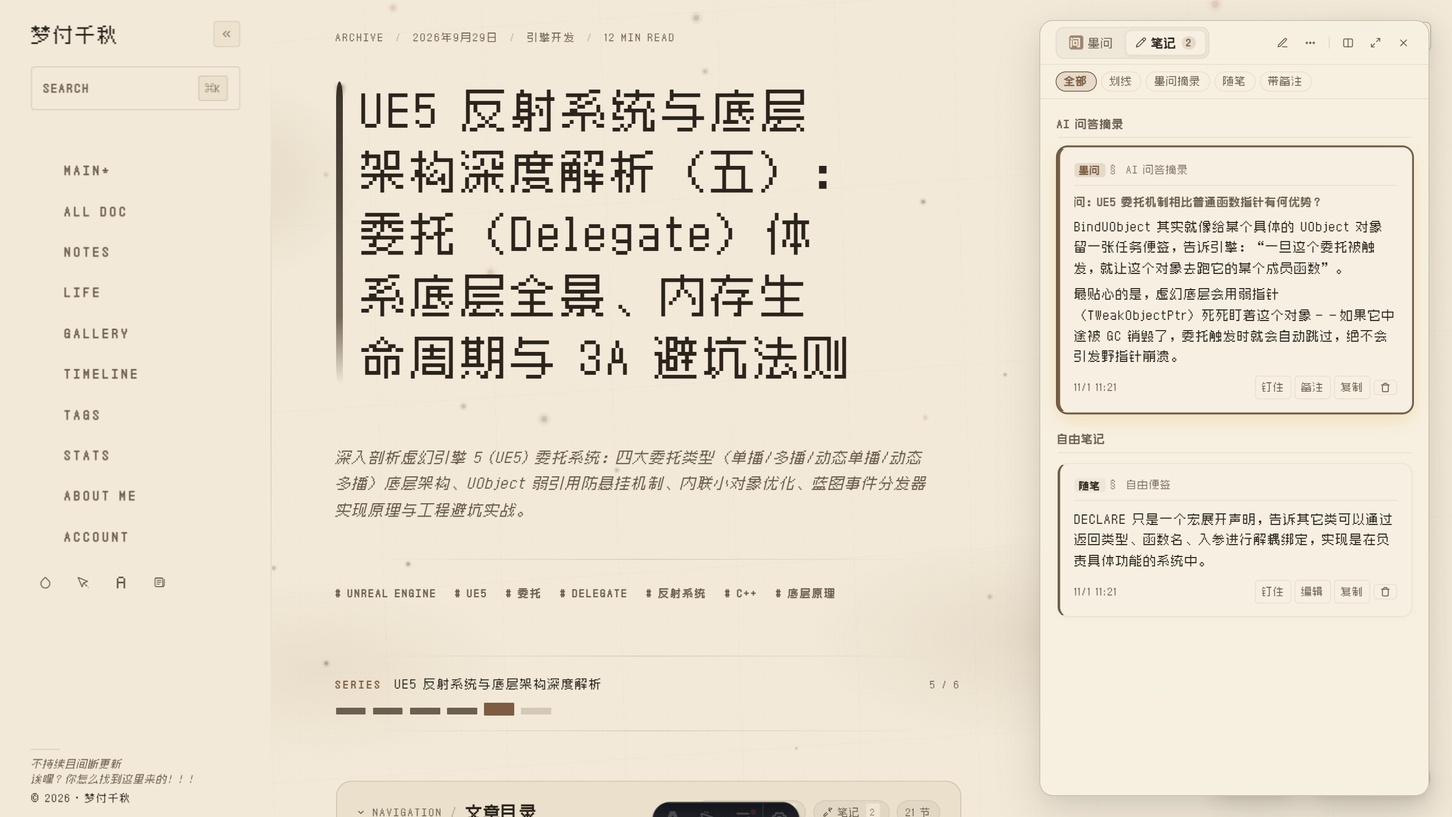
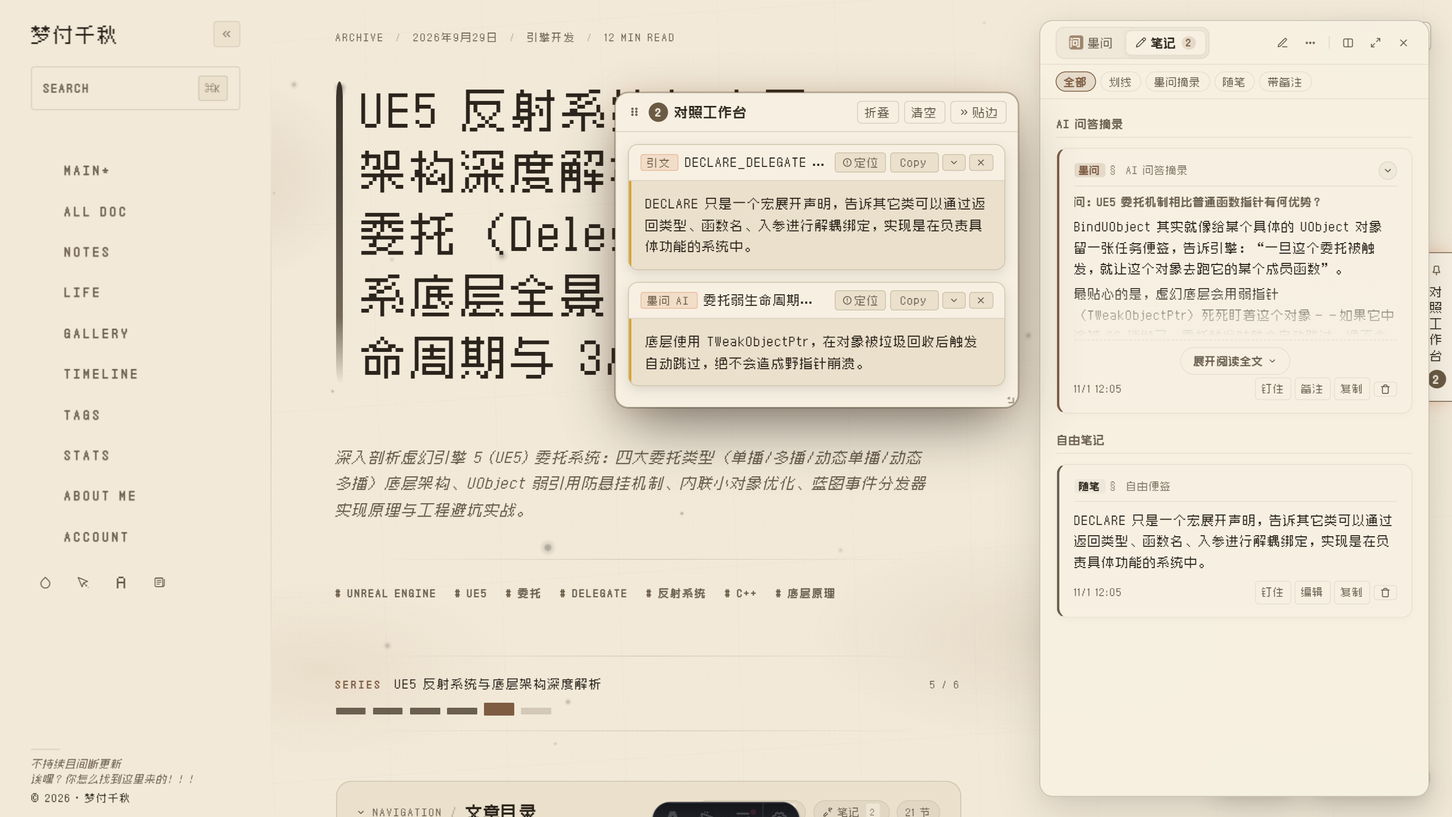
docs(audit): 补充对照工作台真实联动截图与全量交互动效审计深度修正

diff --git a/docs/ai-notes-interaction-animation-audit.md b/docs/ai-notes-interaction-animation-audit.md
@@ -12,11 +12,28 @@
 - [一、交互架构与审计概览](#一交互架构与审计概览)
 - [二、六大交互维度缺失动效深度审计](#二六大交互维度缺失动效深度审计)
   - [维度 1：选中文本与 AI / 笔记入口的连接交互](#维度-1选中文本与-ai--笔记入口的连接交互)
+    - [1.1 划词微托盘呼叫「墨问」缺少文字飞入与轨迹连接](#11-划词微托盘呼叫墨问缺少文字飞入与轨迹连接)
+    - [1.2 快捷键触发缺少按键按下与微波纹触觉反馈](#12-快捷键触发缺少按键按下与微波纹触觉反馈)
   - [维度 2：InkAsk 墨问流式推敲与气泡微动效](#维度-2inkask-墨问流式推敲与气泡微动效)
+    - [2.1 快捷预设提问卡片点击缺少吸入与变形动效](#21-快捷预设提问卡片点击缺少吸入与变形动效)
+    - [2.2 流式回答阶段缺少水墨呼吸光标与渐进渗入](#22-流式回答阶段缺少水墨呼吸光标与渐进渗入)
+    - [2.3 回答完成态操作条与「存入笔记」微交互反馈](#23-回答完成态操作条与存入笔记微交互反馈)
   - [维度 3：「存入笔记」跨模块数据流与时空反馈断层](#维度-3存入笔记跨模块数据流与时空反馈断层)
+    - [3.1 单抽屉模式下「存入笔记」的“盲存”视觉失联](#31-单抽屉模式下存入笔记的盲存视觉失联)
+    - [3.2 并排模式（Split Mode）下跨分隔条飞渡动效缺失](#32-并排模式split-mode下跨分隔条飞渡动效缺失)
+    - [3.3 划定回答局部选区缺少聚焦微高亮](#33-划定回答局部选区缺少聚焦微高亮)
   - [维度 4：伴读顶部分段互切与双卷并排拖拽微动效](#维度-4伴读顶部分段互切与双卷并排拖拽微动效)
+    - [4.1 顶部伴读分段切换缺少滑动胶囊滑块（Sliding Pill Morph）](#41-顶部伴读分段切换缺少滑动胶囊滑块sliding-pill-morph)
+    - [4.2 中缝分隔条（Splitter）到达极值缺少阻尼橡皮筋与复位弹簧](#42-中缝分隔条splitter到达极值缺少阻尼橡皮筋与复位弹簧)
+    - [4.3 双卷并排（Split Mode）宏观对峙与空间舒展动效缺失](#43-双卷并排split-mode宏观对峙与空间舒展动效缺失)
   - [维度 5：笔记抽屉内 AI 卡片结构与双向回流微动效](#维度-5笔记抽屉内-ai-卡片结构与双向回流微动效)
+    - [5.1 笔记列表中的 AI 问答卡片缺少「向墨问追问」的反向回流入口](#51-笔记列表中的-ai-问答卡片缺少向墨问追问的反向回流入口)
+    - [5.2 并排模式下双向拖拽（Drag & Drop）微交互全无](#52-并排模式下双向拖拽drag--drop微交互全无)
+    - [5.3 笔记卡片展开/收起手风琴动画缺失](#53-笔记卡片展开收起手风琴动画缺失)
+    - [5.4 浮动对照工作台与 AI/笔记卡片多屏对照联动动效缺失](#54-浮动对照工作台与-ai笔记卡片多屏对照联动动效缺失)
   - [维度 6：全站笔记中心 (`/notes`) 的 AI 交互孤岛与重排动效](#维度-6全站笔记中心-notes-的-ai-交互孤岛与重排动效)
+    - [6.1 标签筛选重排缺少流体 FLIP 布局重排补间](#61-标签筛选重排缺少流体-flip-布局重排补间)
+    - [6.2 全站笔记中心内 AI 卡片无法直接唤起墨问继续探索](#62-全站笔记中心内-ai-卡片无法直接唤起墨问继续探索)
 - [三、全量审计现场截图对照表](#三全量审计现场截图对照表)
 - [四、水墨书斋微动效参数规范推荐 (Motion Tokens)](#四水墨书斋微动效参数规范推荐-motion-tokens)
 - [五、改造实施排期建议](#五改造实施排期建议)
@@ -30,6 +47,7 @@
 - **墨问 AI (`InkAsk.astro`)**：伴读解惑系统，提供预设脉络、流式回答、答案回溯、一键存入笔记等能力。
 - **高亮笔记抽屉 (`ArticleSelectionDock.astro`)**：按文章与正文结构汇集划线、随笔与 AI 问答摘录。
 - **伴读空间协调器 (`CompanionLayout.astro`)**：管理右侧单浮岛（Rail）、墨问全屏（Ask-Full）、笔记全屏（Notes-Full）以及左墨问·右笔记双卷并排（Split Mode）。
+- **浮动对照工作台 (`PinWorkbench.astro`)**：支持跨段落、跨章节将正文引文、代码块与 AI 问答摘录一键钉入（Pin）可自由拖拽调整尺寸的半透明浮动窗口，并支持右边缘标签（Edge Tab）吸附折叠。
 - **全站笔记管理中心 (`/notes`)**：以瀑布流展板统一陈列全站笔记，按来源与类型分类索引。
 
 **审计核心发现**：
@@ -42,7 +60,7 @@
 ### 维度 1：选中文本与 AI / 笔记入口的连接交互
 
 #### 1.1 划词微托盘呼叫「墨问」缺少文字飞入与轨迹连接
-- **相关代码**：[`ArticleSelectionDock.astro`](file:///e:/搞搞新意思/个人博客/my-blog/src/components/ArticleSelectionDock.astro#L1150-L1171)
+- **相关代码**：[`ArticleSelectionDock.astro`](file:///e:/搞搞新意思/个人博客/my-blog/src/components/ArticleSelectionDock.astro#L1150-L1175)
 - **代码现状**：
   ```javascript
   function triggerAsk() {
@@ -60,7 +78,7 @@
   ![划词微托盘入口](/images/ai-notes-audit/01-selection-dock-ask.png)
 
 #### 1.2 快捷键触发缺少按键按下与微波纹触觉反馈
-- **相关代码**：[`ArticleSelectionDock.astro`](file:///e:/搞搞新意思/个人博客/my-blog/src/components/ArticleSelectionDock.astro#L1342-L1385)
+- **相关代码**：[`ArticleSelectionDock.astro`](file:///e:/搞搞新意思/个人博客/my-blog/src/components/ArticleSelectionDock.astro#L1334-L1385)
 - **缺失表现**：
   微托盘中清晰标明了快捷键 `<kbd>A</kbd>`（墨问）与 `<kbd>H</kbd>`（划线）。但当用户通过键盘按下 `A` 或 `H` 时，托盘按钮毫无视觉按压反馈（无 `:active` 缩放或微光下陷），功能直接执行，缺乏物理按压感。
 - **推荐微动效方案**：
@@ -68,10 +86,10 @@
 
 ---
 
-### 维度 2：InkAsk 墨问流式推敲与气泡微动效
+## 维度 2：InkAsk 墨问流式推敲与气泡微动效
 
 #### 2.1 快捷预设提问卡片点击缺少吸入与变形动效
-- **相关代码**：[`InkAsk.astro`](file:///e:/搞搞新意思/个人博客/my-blog/src/components/InkAsk.astro#L1187-L1216)
+- **相关代码**：[`InkAsk.astro`](file:///e:/搞搞新意思/个人博客/my-blog/src/components/InkAsk.astro#L1187-L1225)
 - **代码现状**：
   预设卡片（脉络提要、问题溯源、机巧拆解、前置与避坑）在 hover 时仅有平淡的背景色变化，点击时立即被清除。
 - **缺失表现**：
@@ -82,7 +100,7 @@
   ![墨问空状态预设卡片](/images/ai-notes-audit/02-ink-ask-empty-state.png)
 
 #### 2.2 流式回答阶段缺少水墨呼吸光标与渐进渗入
-- **相关代码**：[`InkAsk.astro`](file:///e:/搞搞新意思/个人博客/my-blog/src/components/InkAsk.astro#L689-L695)
+- **相关代码**：[`InkAsk.astro`](file:///e:/搞搞新意思/个人博客/my-blog/src/components/InkAsk.astro#L689-L705)
 - **缺失表现**：
   生成回答时，虽然顶部有「展卷推敲中」小三点微动效，但回答正文区域只是生硬地 chunk-by-chunk 刷出文本。缺少大模型或水墨书斋特有的「墨韵呼吸打字光标」，文字流出时略显生冷。
 - **推荐微动效方案**：
@@ -90,12 +108,23 @@
 - **截图佐证**：
   ![墨问推敲中与流式状态](/images/ai-notes-audit/03-ink-ask-streaming-state.png)
 
+#### 2.3 回答完成态操作条与「存入笔记」微交互反馈
+- **相关代码**：[`InkAsk.astro`](file:///e:/搞搞新意思/个人博客/my-blog/src/components/InkAsk.astro#L734-L780)
+- **代码现状**：
+  回答输出结束瞬间，代码通过 `appendTurnActions` 挂载 `[存入笔记]` 与 `[复制]` 两个操作按钮。
+- **缺失表现**：
+  操作栏直接瞬间弹出（pop-in），缺乏平滑入场；按钮在 hover 与点击时缺少物理微触觉反馈与状态流转动效。
+- **推荐微动效方案**：
+  操作栏采用 `translate3d(0, 6px, 0) -> translate3d(0, 0, 0)` 伴随 `opacity: 0 -> 1` 的入场补间（220ms）；按钮 hover 时呈现微浮与边框微光，点击存入时播放微弹性缩放与朱砂印记微闪。
+- **截图佐证**：
+  ![墨问回答完成态与底部操作条](/images/ai-notes-audit/04-ink-ask-answer-save-note.png)
+
 ---
 
-### 维度 3：「存入笔记」跨模块数据流与时空反馈断层
+## 维度 3：「存入笔记」跨模块数据流与时空反馈断层
 
 #### 3.1 单抽屉模式下「存入笔记」的“盲存”视觉失联
-- **相关代码**：[`InkAsk.astro`](file:///e:/搞搞新意思/个人博客/my-blog/src/components/InkAsk.astro#L740-L766)、[`ArticleSelectionDock.astro`](file:///e:/搞搞新意思/个人博客/my-blog/src/components/ArticleSelectionDock.astro#L2260-L2273)
+- **相关代码**：[`InkAsk.astro`](file:///e:/搞搞新意思/个人博客/my-blog/src/components/InkAsk.astro#L740-L770)、[`ArticleSelectionDock.astro`](file:///e:/搞搞新意思/个人博客/my-blog/src/components/ArticleSelectionDock.astro#L2232-L2275)
 - **关键代码还原**：
   ```typescript
   btn.addEventListener('click', () => {
@@ -120,7 +149,7 @@
   ![单抽屉存入笔记视觉失联](/images/ai-notes-audit/05-save-note-closed-drawer-disconnect.png)
 
 #### 3.2 并排模式（Split Mode）下跨分隔条飞渡动效缺失
-- **相关代码**：[`CompanionLayout.astro`](file:///e:/搞搞新意思/个人博客/my-blog/src/components/CompanionLayout.astro#L421-L528)、[`ArticleSelectionDock.astro`](file:///e:/搞搞新意思/个人博客/my-blog/src/components/ArticleSelectionDock.astro#L2083-L2094)
+- **相关代码**：[`CompanionLayout.astro`](file:///e:/搞搞新意思/个人博客/my-blog/src/components/CompanionLayout.astro#L430-L530)、[`ArticleSelectionDock.astro`](file:///e:/搞搞新意思/个人博客/my-blog/src/components/ArticleSelectionDock.astro#L2077-L2125)
 - **缺失表现**：
   在「左墨问 · 右笔记」双卷并排模式下，两卷同屏对照。用户点击左侧的「存入笔记」，右侧笔记列表最上方虽然插入了新卡片，但两屏之间没有任何跨越中央中缝（Splitter）的视觉过渡，看起来像两个毫不相关的独立软件窗口。
 - **推荐微动效方案**：
@@ -129,7 +158,7 @@
   ![并排模式跨面板存入缺失连贯性](/images/ai-notes-audit/08-split-mode-save-cross-panel.png)
 
 #### 3.3 划定回答局部选区缺少聚焦微高亮
-- **相关代码**：[`InkAsk.astro`](file:///e:/搞搞新意思/个人博客/my-blog/src/components/InkAsk.astro#L721-L732)
+- **相关代码**：[`InkAsk.astro`](file:///e:/搞搞新意思/个人博客/my-blog/src/components/InkAsk.astro#L707-L732)
 - **缺失表现**：
   代码设计了精巧的特性：“在回答里选中一段文字，则只保存选中的部分，按钮变更为【存入选中】”。但在用户选中文本时，回答气泡内部没有给出任何视觉锁定框或金线边缘包围，用户难以感知系统是否准确捕获了当前选区。
 - **推荐微动效方案**：
@@ -137,10 +166,10 @@
 
 ---
 
-### 维度 4：伴读顶部分段互切与双卷并排拖拽微动效
+## 维度 4：伴读顶部分段互切与双卷并排拖拽微动效
 
 #### 4.1 顶部伴读分段切换缺少滑动胶囊滑块（Sliding Pill Morph）
-- **相关代码**：[`CompanionLayout.astro`](file:///e:/搞搞新意思/个人博客/my-blog/src/components/CompanionLayout.astro#L155-L172, #L336-L353)
+- **相关代码**：[`CompanionLayout.astro`](file:///e:/搞搞新意思/个人博客/my-blog/src/components/CompanionLayout.astro#L155-L175)
 - **缺失表现**：
   顶部分段器包含 `[问 墨问]` 与 `[✎ 笔记 N]` 两个 Tab。目前点击切换时，仅通过类名修改背景色与透明度。虽然面板主体有横向微移，但 Tab 本身缺少 macOS / iOS 风格的共享平滑滑动背景滑块。
 - **推荐微动效方案**：
@@ -149,7 +178,7 @@
   ![顶部分段切换](/images/ai-notes-audit/06-companion-seg-tab-switch.png)
 
 #### 4.2 中缝分隔条（Splitter）到达极值缺少阻尼橡皮筋与复位弹簧
-- **相关代码**：[`CompanionLayout.astro`](file:///e:/搞搞新意思/个人博客/my-blog/src/components/CompanionLayout.astro#L639-L658, #L680-L688)
+- **相关代码**：[`CompanionLayout.astro`](file:///e:/搞搞新意思/个人博客/my-blog/src/components/CompanionLayout.astro#L639-L688)
 - **代码现状**：
   ```javascript
   splitter.addEventListener('dblclick', () => {
@@ -169,14 +198,25 @@
 - **截图佐证**：
   ![中缝分隔条拖拽与百分比气泡](/images/ai-notes-audit/10-splitter-drag-feedback.png)
 
+#### 4.3 双卷并排（Split Mode）宏观对峙与空间舒展动效缺失
+- **相关代码**：[`CompanionLayout.astro`](file:///e:/搞搞新意思/个人博客/my-blog/src/components/CompanionLayout.astro#L430-L460, #L510-L530)
+- **代码现状**：
+  在宽屏模式下，用户可通过操作栏或分段菜单触发 `enterSplit` 进入双卷并排。
+- **缺失表现**：
+  进入并排模式时，两扇抽屉同时展开，但左卷与右卷的展开缺乏时间差与书卷舒展的层次感（Staggered Unfold），视线无焦点；退出并排退回单抽屉时，收拢动作略显生硬。
+- **推荐微动效方案**：
+  进入并排模式时，采用书卷双扉舒展开阖动效：主屏（发起方）保持沉稳，副屏（被呼出方）从右侧如经卷般缓缓延展铺开（Duration 480ms，`cubic-bezier(0.16, 1, 0.3, 1)`），中央中缝同步自顶部垂落显现。
+- **截图佐证**：
+  ![双卷并排模式全景展开](/images/ai-notes-audit/07-split-mode-overview.png)
+
 ---
 
-### 维度 5：笔记抽屉内 AI 卡片结构与双向回流微动效
+## 维度 5：笔记抽屉内 AI 卡片结构与双向回流微动效
 
 #### 5.1 笔记列表中的 AI 问答卡片缺少「向墨问追问」的反向回流入口
-- **相关代码**：[`ArticleSelectionDock.astro`](file:///e:/搞搞新意思/个人博客/my-blog/src/components/ArticleSelectionDock.astro#L1671-L1750)
+- **相关代码**：[`ArticleSelectionDock.astro`](file:///e:/搞搞新意思/个人博客/my-blog/src/components/ArticleSelectionDock.astro#L1584, #L1671-L1750, #L3974-L4035)
 - **严重交互死胡同**：
-  在笔记抽屉中，AI 卡片标有 `墨问` 标签与原问题 `问：...`，下方操作栏仅有 `[钉住]`、`[备注]`、`[复制]`、`[删除]`。如果用户重读此条 AI 笔记时产生新的疑问，**无法在此卡片上一键追问**！必须退回墨问抽屉重新打字。
+  在笔记抽屉中，AI 卡片标有 `墨问 § AI 问答摘录` 标签与原问题 `问：...`，下方操作栏仅有 `[钉住]`、`[备注]`、`[复制]`、`[删除]`。如果用户重读此条 AI 笔记时产生新的疑问，**无法在此卡片上一键追问**！必须退回墨问抽屉重新打字。
 - **推荐微动效方案**：
   在 AI 卡片右下角增设 `[追问墨问]` 按钮。点击后，卡片文字化作一缕墨线，平滑切回/唤起左侧墨问输入框，并在输入框上方挂载「引用追问来源」微胶囊，同时墨问面板自右向左丝滑滑入。
 - **截图佐证**：
@@ -190,18 +230,33 @@
   实现 HTML5 Drag-and-Drop 微交互：拖动时生成半透明纸张跟随光标；当光标悬停至目标面板时，目标面板泛起淡金色的接收区域外边框虚线（Dropzone Expansion Animation），松手时卡片伴随重力回弹轻盈就位。
 
 #### 5.3 笔记卡片展开/收起手风琴动画缺失
-- **相关代码**：[`ArticleSelectionDock.astro`](file:///e:/搞搞新意思/个人博客/my-blog/src/components/ArticleSelectionDock.astro#L1656-L1670)
+- **相关代码**：[`ArticleSelectionDock.astro`](file:///e:/搞搞新意思/个人博客/my-blog/src/components/ArticleSelectionDock.astro#L4067-L4160)
 - **缺失表现**：
   长文折叠的笔记点击「展开阅读全文」时，高度直接突变跳跃，把下方的卡片生硬顶开。
 - **推荐微动效方案**：
   采用 CSS `grid-template-rows: 0fr -> 1fr` 或现代平滑插值，展开时内容以 300ms 丝滑舒展，渐变遮罩由下至上柔和消散。
 
+#### 5.4 浮动对照工作台与 AI/笔记卡片多屏对照联动动效缺失
+- **相关代码**：[`PinWorkbench.astro`](file:///e:/搞搞新意思/个人博客/my-blog/src/components/PinWorkbench.astro#L28, #L909-L955, #L1065-L1170), [`ArticleSelectionDock.astro`](file:///e:/搞搞新意思/个人博客/my-blog/src/components/ArticleSelectionDock.astro#L1100-L1105), [`global.css`](file:///e:/搞搞新意思/个人博客/my-blog/src/styles/global.css#L9778-L9848)
+- **代码现状与实测分析**：
+  在 `PinWorkbench.astro` 中，系统设计了可自由拖拽、缩放的「浮动对照工作台」（`#pin-float-window`），并在右侧屏幕边缘设有「贴边收纳标签」（`#pin-edge-tab`）。当用户在正文划词或在抽屉中点击「钉住」时，调用 `window.__pinWorkbench.pinExcerpt(...)` 将引文或 AI 摘录收录进工作台，并通过 `ensureWindowPosition()` 自动居中避让右侧笔记抽屉呈现（如现场截图 11 所示：米色宣纸正文、居中半透明浮动工作台、右侧展开的笔记抽屉以及最右侧边缘标签四者和谐共存）。
+- **微动效与交互缺失表现**：
+  1. **跨抽屉钉入 AI 笔记缺少目标指向微轨迹**：在笔记抽屉内的 AI 问答卡片上点击 `[钉住]` 时，虽然底层有 `spawnFlyGhost`，但起点终点在多抽屉开启时未能精准映射到浮动工作台或边缘标签的当前三维坐标，视觉上缺乏「从笔记卡片飞入对照工作台」的平滑水墨抛物线；
+  2. **双工作台对照时的联动回溯（Traceback）动效缺失**：用户在对照工作台中阅读已钉住的 AI 问答摘录，点击 `[定位]` 按钮时，目前仅支持正文滚动并播放 `pin-source-pulse`。如果该卡片来源于墨问问答，无法反向定位并高亮墨问对话流中的提问轮次（Turn）；
+  3. **工作台「贴边/展开」时的空间折叠与层级遮挡**：点击工作台右上角的 `[>> 贴边]` 时，浮动窗口以 WAAPI 平滑滑向屏幕右侧边缘标签（`dockWindow`，740ms），但在笔记抽屉同时处于打开状态时，边缘标签在抽屉后方，缺乏空间景深层级过渡，容易造成视觉穿透或被盖住的感知困惑。
+- **推荐微动效方案**：
+  1. 统一 `pinExcerpt` 动画管线：在任何面板（正文微托盘、笔记抽屉卡片、墨问回答气泡）点击「钉住」时，提取源卡片缩略轮廓，以三阶贝塞尔抛物线飞向对照工作台，目标工作台对应卡片以 FLIP 平滑下移展开接纳；
+  2. 增强卡片定位反向联动：点击工作台内 AI 卡片的 `[定位]`，若墨问抽屉未打开则自动拉开墨问抽屉，并将目标问答轮次气泡以淡金色边框脉冲高亮（Pulse Glow 1.8s）；
+  3. 贴边收纳景深感知：贴边时根据笔记抽屉的开闭状态动态调整层级与目标锚点，提供柔和的景深模糊与缩放（Scale 1.0 -> 0.85 -> Edge Tab 吸纳）。
+- **截图佐证**：
+  ![浮动对照工作台与笔记抽屉多屏对照联动](/images/ai-notes-audit/11-pin-workbench-interaction.png)
+
 ---
 
-### 维度 6：全站笔记中心 (`/notes`) 的 AI 交互孤岛与重排动效
+## 维度 6：全站笔记中心 (`/notes`) 的 AI 交互孤岛与重排动效
 
 #### 6.1 标签筛选重排缺少流体 FLIP 布局重排补间
-- **相关代码**：[`src/pages/notes.astro`](file:///e:/搞搞新意思/个人博客/my-blog/src/pages/notes.astro#L1980-L2020)
+- **相关代码**：[`src/pages/notes.astro`](file:///e:/搞搞新意思/个人博客/my-blog/src/pages/notes.astro#L77-L80, #L1943-L2360)
 - **缺失表现**：
   在 `/notes` 页面点击 `[墨问 AI 问答]` 筛选分类时，非 AI 卡片直接突兀消失，剩余卡片直接跳跃到新的瀑布流网格位置，存在明显的视觉断层。
 - **推荐微动效方案**：
@@ -210,7 +265,7 @@
   ![全站笔记中心 AI 分类视图](/images/ai-notes-audit/12-notes-page-ai-view.png)
 
 #### 6.2 全站笔记中心内 AI 卡片无法直接唤起墨问继续探索
-- **相关代码**：[`src/pages/notes.astro`](file:///e:/搞搞新意思/个人博客/my-blog/src/pages/notes.astro#L1730-L1770)
+- **相关代码**：[`src/pages/notes.astro`](file:///e:/搞搞新意思/个人博客/my-blog/src/pages/notes.astro#L1730-L1820)
 - **缺失表现**：
   卡片底部仅有「出自某文章 · 跳转原文 >」。全站独立页面环境下，墨问 AI 完全处于沉睡状态，无法针对该笔记做二次拓展、润色或答疑。
 - **推荐微动效方案**：
@@ -227,28 +282,48 @@
 | **01** | [`01-selection-dock-ask.png`](/images/ai-notes-audit/01-selection-dock-ask.png) | **划词微托盘**：选区生成底端微胶囊，点击「墨问」缺少文字飞入与轨迹连接 |
 | **02** | [`02-ink-ask-empty-state.png`](/images/ai-notes-audit/02-ink-ask-empty-state.png) | **墨问伴读开卷**：欢迎页与四张预设卡片，hover 与点击缺少吸入变形动效 |
 | **03** | [`03-ink-ask-streaming-state.png`](/images/ai-notes-audit/03-ink-ask-streaming-state.png) | **推敲生成中**：回答流式输出时缺少水墨呼吸打字光标与段落层叠渗入 |
-| **04** | [`04-ink-ask-answer-save-note.png`](/images/ai-notes-audit/04-ink-ask-answer-save-note.png) | **回答完成态**：底部操作栏展示「存入笔记」与「复制」，排版精炼但缺少微高亮锁定 |
+| **04** | [`04-ink-ask-answer-save-note.png`](/images/ai-notes-audit/04-ink-ask-answer-save-note.png) | **回答完成态**：底部操作栏展示「存入笔记」与「复制」，排版精炼但缺少入场过渡与触感反馈 |
 | **05** | [`05-save-note-closed-drawer-disconnect.png`](/images/ai-notes-audit/05-save-note-closed-drawer-disconnect.png) | **单抽屉盲存**：点击存入后仅按钮改字，右侧笔记抽屉关闭，用户产生严重的存储迷失感 |
 | **06** | [`06-companion-seg-tab-switch.png`](/images/ai-notes-audit/06-companion-seg-tab-switch.png) | **顶部分段互切**：缺少 iOS 风格滑动胶囊背景滑块，切换略带闪烁 |
-| **07** | [`07-split-mode-overview.png`](/images/ai-notes-audit/07-split-mode-overview.png) | **双卷并排宏观**：左墨问·右笔记并排展开，空间宏大，但两卷之间缺乏视觉联动纽带 |
+| **07** | [`07-split-mode-overview.png`](/images/ai-notes-audit/07-split-mode-overview.png) | **双卷并排宏观**：左墨问·右笔记并排展开，空间宏大，但两卷展开缺乏经卷舒展层次感 |
 | **08** | [`08-split-mode-save-cross-panel.png`](/images/ai-notes-audit/08-split-mode-save-cross-panel.png) | **并排跨面板飞渡**：左侧点击存入，右侧虽然落座，但缺少穿越中缝的微光飞线 |
 | **09** | [`09-notes-drawer-ai-cards.png`](/images/ai-notes-audit/09-notes-drawer-ai-cards.png) | **笔记卡片解构**：AI 笔记卡片缺少一键追问墨问入口，成为单向孤岛 |
 | **10** | [`10-splitter-drag-feedback.png`](/images/ai-notes-audit/10-splitter-drag-feedback.png) | **中缝拖拽与气泡**：中缝缺少极值阻尼橡皮筋回弹，双击复位缺少弹簧动画 |
-| **11** | [`11-pin-workbench-interaction.png`](/images/ai-notes-audit/11-pin-workbench-interaction.png) | **对照工作台联动**：钉入便签缺少飞入右边缘标签的物理抛物线 |
-| **12** | [`12-notes-page-ai-view.png`](/images/ai-notes-audit/12-notes-page-ai-view.png) | **全站笔记中心**：AI 问答摘录瀑布流重排卡顿，缺乏原地追问展开动效 |
+| **11** | [`11-pin-workbench-interaction.png`](/images/ai-notes-audit/11-pin-workbench-interaction.png) | **对照工作台多屏联动**：正文、浮动对照工作台、笔记抽屉与右边缘标签多屏并存，卡片跨抽屉钉入与回跳墨问问答缺少视觉引导轨迹 |
+| **12** | [`12-notes-page-ai-view.png`](/images/ai-notes-audit/12-notes-page-ai-view.png) | **全站笔记中心**：AI 问答摘录瀑布流重排突兀，缺乏原地追问与流体 FLIP 排版 |
 
 ---
 
 ## 四、水墨书斋微动效参数规范推荐 (Motion Tokens)
 
-为确保未来的动效实现与整站水墨克制、文人典雅的气质高度契合，建议遵循以下设计参数：
+为确保未来的动效实现与整站水墨克制、文人典雅的气质高度契合，建议遵循以下设计参数系统：
 
-| 动效类型 | 推荐曲线 (Easing) | 时长 (Duration) | 适用场景 |
-|:---|:---|:---:|:---|
-| **水墨开卷 / 飞渡** | `cubic-bezier(0.16, 1, 0.3, 1)` (超阻尼弹簧) | 360ms ~ 420ms | 抽屉展开、双卷并排、跨屏卡片落座 |
-| **印章轻按 / 微触觉** | `cubic-bezier(0.34, 1.56, 0.64, 1)` (微弹性) | 160ms ~ 220ms | 快捷键按下反馈、分段器滑块移动、角标跳动 |
-| **气泡与轻量提示** | `cubic-bezier(0.2, 0.8, 0.2, 1)` (柔和缓入) | 240ms ~ 280ms | 百分比徽章浮现、Toast 微提示、卡片折叠 |
-| **墨韵呼吸光标** | `easeInOutSine` (平滑正弦) | 1000ms 循环 | AI 问答推敲中的打字游标与微光流转 |
+### 4.1 缓动曲线参数规范 (Easing Curves)
+
+| 动效 Token 名称 | 贝塞尔曲线 (Bezier Curve) | 物理感知模型 | 适用场景 |
+|:---|:---|:---|:---|
+| `--motion-spring-paper` | `cubic-bezier(0.16, 1, 0.3, 1)` | 宣纸沉稳舒展（超阻尼弹簧） | 伴读抽屉展开/收起、双卷并排、浮动工作台滑行 |
+| `--motion-spring-tactile`| `cubic-bezier(0.34, 1.56, 0.64, 1)` | 金石印泥微弹（微回弹物理） | 快捷键按下反馈、分段器滑块移动、角标跳动、按钮下陷 |
+| `--motion-ease-gentle`  | `cubic-bezier(0.2, 0.8, 0.2, 1)` | 微风轻拂（柔和缓入缓出） | 百分比气泡浮现、轻量微 Toast、卡片折叠手风琴 |
+| `--motion-sine-breath`  | `cubic-bezier(0.45, 0.05, 0.55, 0.95)` | 着墨呼吸（平滑正弦正循环） | 墨问推敲中打字游标呼吸、宣纸微光流转 |
+
+### 4.2 动效时长规范 (Duration Tiers)
+
+| 时长 Token 名称 | 标准取值 | 视觉感知分层 | 适用交互元素 |
+|:---|:---:|:---|:---|
+| `--motion-duration-instant`| `120ms` | 瞬时微触感 | 按钮 `:active` 按压缩放、hover 亮度微变 |
+| `--motion-duration-micro`  | `180ms ~ 220ms` | 细腻微反馈 | 分段器指示器滑移、角标跳动、操作条浮现 |
+| `--motion-duration-flow`   | `320ms ~ 420ms` | 物体运动与飞渡 | 文字幽灵胶囊飞入、跨面板穿缝飞线、Toast 显隐 |
+| `--motion-duration-scene`  | `540ms ~ 740ms` | 场景切换与空间延展 | 伴读抽屉展开、双卷舒展、对照工作台贴边吸附 |
+| `--motion-duration-breath` | `1100ms ~ 1200ms` | 情绪韵律呼吸 | 墨问思考中打字光标正弦脉动 |
+
+### 4.3 空间几何与微形变规范 (Transforms & Filters)
+
+| 变换类型 | 参数区间 | 约束准则 |
+|:---|:---|:---|
+| **下按下沉 (Scale & Depress)** | `scale(0.92)` ~ `scale(0.96)` | 仅针对可交互按钮与胶囊，按压深度不超过 8%，严禁剧烈抖动 |
+| **空间位移 (Translate 3D)**   | `translate3d(0, -2px, 0)` ~ `translate3d(0, 6px, 0)` | 强制使用 3D 硬件加速，卡片入场位移不超过 12px，保持文人沉静 |
+| **模糊雾化 (Defocus & Veil)** | `blur(0px)` ~ `blur(4px)` | 卡片进退场或被遮挡时仅允许微量虚化，严禁过度模糊引发视觉疲劳 |
 
 ---
 
@@ -259,7 +334,8 @@
    - 在笔记抽屉 AI 卡片上增设「追问墨问」回流微动效（打通单向孤岛）。
 2. **P1 空间操控质感提升**：
    - 顶部分段器增加平滑滑动胶囊指示器（Sliding Pill Morph）；
-   - 中缝分隔条增加极值橡皮筋阻尼与双击 50% 平滑弹簧回弹。
+   - 中缝分隔条增加极值橡皮筋阻尼与双击 50% 平滑弹簧回弹；
+   - 浮动对照工作台跨面板钉入飞线与 AI 会话反向高亮定位。
 3. **P2 细节打磨与全站连通**：
    - 选中文本呼叫墨问的文字幽灵飞入轨迹；
    - 全站 `/notes` 页面卡片筛选 FLIP 流体排版与原地微问答。
